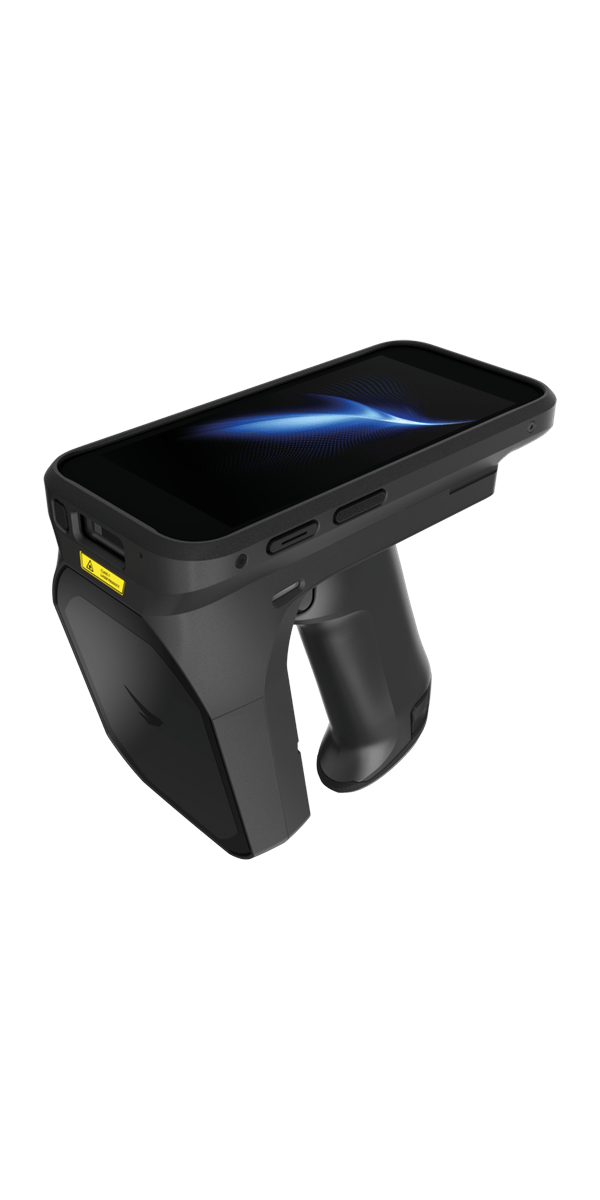
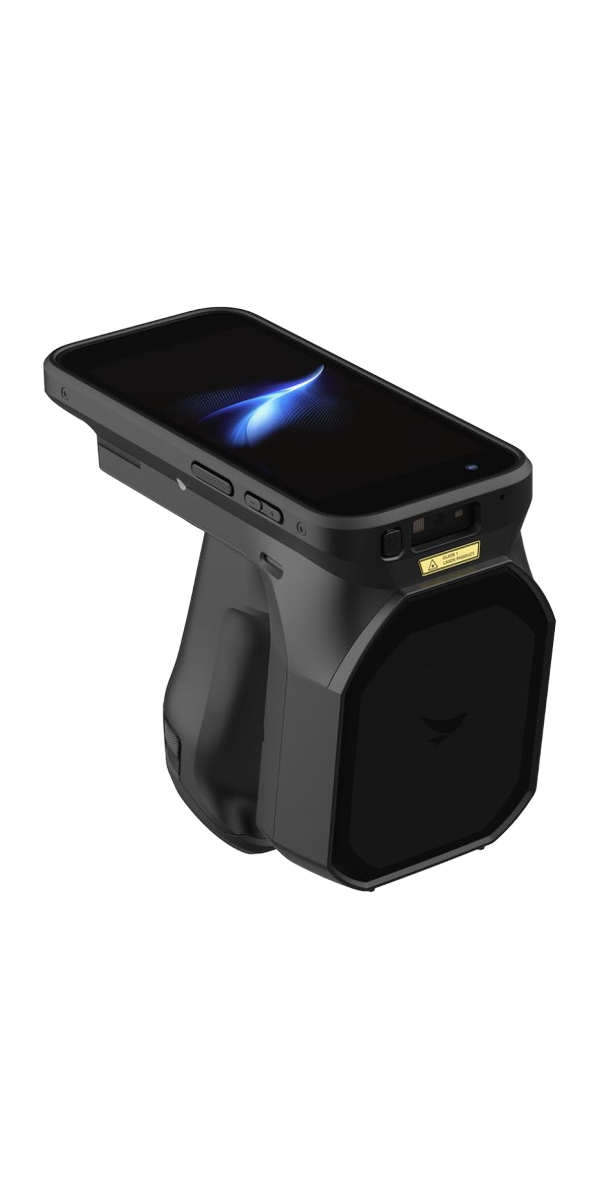
Bluebird S10 RFID: zdjęcie główne z przodu z karty katalogowej
Główne zdjęcie pokazywało urządzenie od tyłu i z góry, z ledwo widocznym
ekranem. Teraz zdjęciem głównym jest ujęcie z karty katalogowej S10 RFID
(z przodu pod kątem: ekran, okno skanera, antena UHF RFID), ze zgodną
maską przezroczystości. Dawne ujęcie jest drugim zdjęciem. Mapy zdjęć
uzupełnione ręcznie.

Changed region(s): [[0.06, 0.2467, 0.93, 0.74]]

diff --git a/src/data/bluebird-products.ts b/src/data/bluebird-products.ts
@@ -1226,10 +1226,12 @@ export const bluebirdProducts: Product[] = [
     "priceFrom": 4000.21,
     "availability": "unavailable",
     "images": [
-      "/images/products/S10-ANLJRW.png"
+      "/images/products/S10-ANLJRW.png",
+      "/images/products/S10-ANLJRW-2.png"
     ],
     "imageDescriptions": [
-      "Bluebird S10 RFID — widok pod kątem, uchwyt pistoletowy z czytnikiem UHF RFID"
+      "Bluebird S10 RFID — widok z przodu pod kątem: ekran, okno skanera i antena UHF RFID w uchwycie pistoletowym",
+      "Bluebird S10 RFID — widok z tyłu pod kątem, uchwyt pistoletowy z czytnikiem UHF RFID"
     ],
     "tags": [
       "magazyn",
